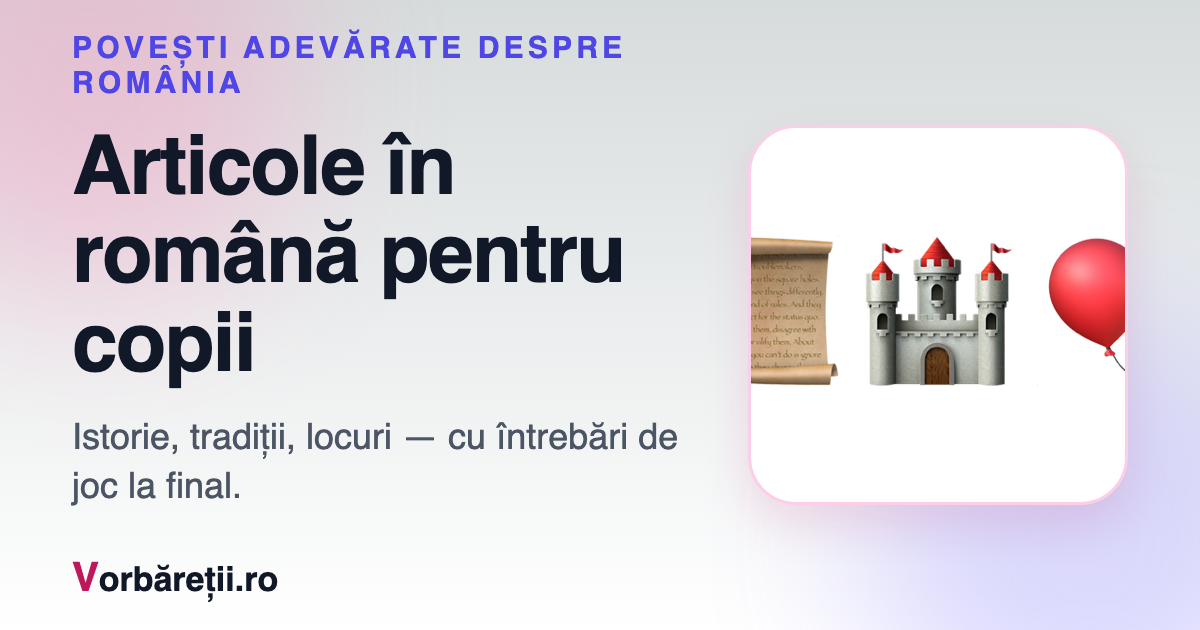
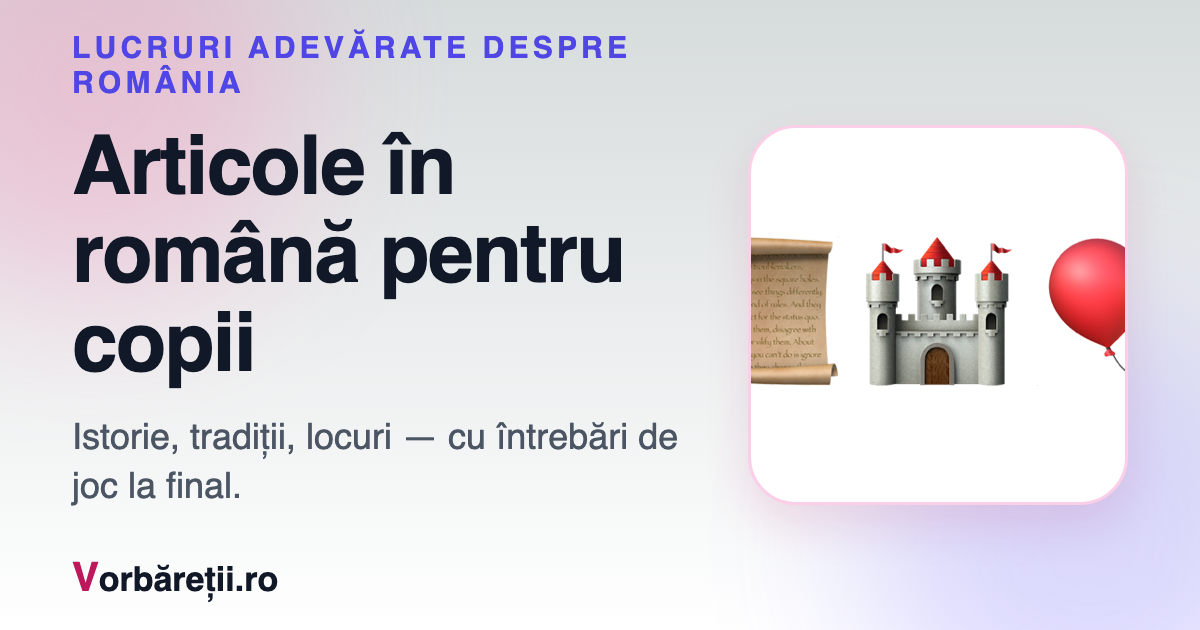
TASK-0008: fara substantivul «poveste» pentru articole factuale (#31)
Calc din engleza (story) semnalat de operator: in romana «poveste» = fictiune;
articolele despre istorie/cultura sunt fapte. Curatat pe suprafata articolelor
si a jocului Curiozitati (titluri, meta, OG, empty states, hint-uri).
Jocurile de FICTIUNE (Zarurile de poveste, Poveste din emoji, roata) raman -
acolo e chiar sensul. Conventia «se povesteste» pentru legende ramane.

Changed region(s): [[0.0617, 0.0302, 0.5242, 0.0905]]

diff --git a/app/articole/page.tsx b/app/articole/page.tsx
@@ -4,10 +4,10 @@ import { cardLinkChrome, eyebrow } from "@/app/components/ui";
 import { articles, type ArticleEntry } from "./articles";
 import { taxonomy } from "./taxonomy";
 
-const pageTitle = "Articole în română pentru copii - povești adevărate despre România";
+const pageTitle = "Articole în română pentru copii - istorie, tradiții și locuri adevărate";
 const pageDescription =
-  "Povești adevărate despre România, scrise pentru copii: istorie, tradiții, locuri. " +
-  "Cu întrebări de joc la final și surse la fiecare poveste.";
+  "Lucruri adevărate despre România, pe înțelesul copiilor: istorie, tradiții, locuri. " +
+  "Cu întrebări de joc la final și surse la fiecare articol.";
 
 export const metadata: Metadata = {
   title: pageTitle,
@@ -57,15 +57,15 @@ export default function Page() {
     <main className="mx-auto max-w-2xl px-6 pb-16 pt-8">
       <p className={eyebrow}>Vorbăreții · Articole</p>
       <h1 className="mt-2 text-balance text-3xl font-bold tracking-tight text-gray-900 sm:text-4xl">
-        Povești adevărate despre țara ta.
+        Lucruri adevărate despre țara ta.
       </h1>
       <p className="mt-3 text-pretty leading-7 text-gray-600">
-        Am 700 de ani și am văzut cu ochii mei aproape tot ce e aici. Alege o poveste.
+        Am 700 de ani și am văzut cu ochii mei aproape tot ce e aici. Alege un articol.
       </p>
 
       {articles.length === 0 ? (
         <div className="mt-8 rounded-2xl border-2 border-dashed border-pink-100 px-5 py-6 text-gray-500">
-          <p className="font-semibold text-gray-600">Primele povești sunt pe drum.</p>
+          <p className="font-semibold text-gray-600">Primele articole sunt pe drum.</p>
           <p className="mt-1 text-sm">
             Până sosesc, sunt{" "}
             <Link

diff --git a/app/articole/components/article-shell.tsx b/app/articole/components/article-shell.tsx
@@ -44,13 +44,13 @@ function QuestionsBlock({ entry }: { entry: ArticleEntry }) {
   const questions = entry.data.sections.flatMap((s) => s.questions);
   return (
     <section className="mt-8 rounded-2xl border border-pink-100 bg-gradient-to-br from-pink-50 to-indigo-50 px-5 py-4">
-      <h2 className="text-lg font-extrabold text-gray-900">💬 Întrebările poveștii.</h2>
+      <h2 className="text-lg font-extrabold text-gray-900">💬 Întrebările articolului.</h2>
       <ul className="mt-2 list-disc space-y-1.5 pl-5 font-semibold text-gray-900">
         {questions.map((q) => (
           <li key={q.question}>{q.question}</li>
         ))}
       </ul>
-      <p className="mt-2 text-sm text-gray-600">Le știi? Răspunsurile sunt toate în poveste.</p>
+      <p className="mt-2 text-sm text-gray-600">Le știi? Răspunsurile sunt toate în articol.</p>
       <p className="mt-2 text-sm font-bold text-indigo-600">
         🎲 Le găsești și în jocul{" "}
         <Link
@@ -129,7 +129,7 @@ export default function ArticleShell({ entry }: { entry: ArticleEntry }) {
       <QuestionsBlock entry={entry} />
       <SourcesBlock sources={data.sources} />
       <ClubInvite
-        title="Ți-a plăcut povestea? La club le spunem cu vocea."
+        title="Ți-a plăcut articolul? La club le povestim cu vocea."
         body="O oră pe săptămână, cu copii care vorbesc românește ca tine."
         event="demo_articol"
       />

diff --git a/app/jocuri/components/story-questions-game.tsx b/app/jocuri/components/story-questions-game.tsx
@@ -3,7 +3,7 @@
 /**
  * „Întrebări din povești” — roata cu întrebările articolelor. Pachetele vin
  * de pe server (pagina jocului le derivă din registrul articolelor); aici e
- * doar jocul: învârti, răspunzi cu voce tare, apoi vezi răspunsul din poveste.
+ * doar jocul: învârti, răspunzi cu voce tare, apoi vezi răspunsul din articol.
  */
 
 import Link from "next/link";
@@ -20,7 +20,7 @@ function EmptyState() {
       <p className="text-3xl" aria-hidden="true">
         📜
       </p>
-      <p className="mt-2 font-semibold">Roata asta se umple din povești.</p>
+      <p className="mt-2 font-semibold">Roata asta se umple din articole.</p>
       <p className="mt-1 text-sm">
         Primele{" "}
         <Link
@@ -95,7 +95,7 @@ function SpinControls(props: { spinning: boolean; onSpin: () => void }) {
         >
           articole
         </Link>
-        {" — citește povestea, apoi întoarce-te cu roata."}
+        {" — citește articolul, apoi întoarce-te cu roata."}
       </p>
     </>
   );
@@ -112,7 +112,7 @@ function StoryTabs(props: {
       items={props.decks.map((d) => ({ id: d.id, label: d.label }))}
       activeId={props.activeId}
       onChange={(id) => props.onChange(props.decks.findIndex((d) => d.id === id))}
-      label="Categoria de povești"
+      label="Categoria de întrebări"
     />
   );
 }

diff --git a/app/jocuri/games.ts b/app/jocuri/games.ts
@@ -193,13 +193,13 @@ export const games: Game[] = [
     title: "Curiozități",
     emoji: "📜",
     tagline: "Întrebări adevărate din articolele noastre.",
-    howTo: "Învârte roata, răspunde cu voce tare, apoi vezi răspunsul din poveste.",
+    howTo: "Învârte roata, răspunde cu voce tare, apoi vezi răspunsul din articol.",
     ages: "7",
     itemsLabel: "întrebări",
     seo: {
       title: "Curiozități - joc în română din articolele pentru copii",
       description:
-        "Învârte roata cu întrebări din poveștile noastre adevărate despre România. Răspunzi, apoi verifici răspunsul în articol.",
+        "Învârte roata cu întrebări din articolele noastre despre România. Răspunzi, apoi verifici răspunsul în articol.",
     },
   },
 ];

diff --git a/scripts/generate-og.ts b/scripts/generate-og.ts
@@ -45,7 +45,7 @@ const cards: Card[] = [
   {
     slug: "articole",
     emojis: ["📜", "🏰", "🎈"],
-    eyebrow: "Povești adevărate despre România",
+    eyebrow: "Lucruri adevărate despre România",
     title: "Articole în română pentru copii",
     tagline: "Istorie, tradiții, locuri — cu întrebări de joc la final.",
   },
